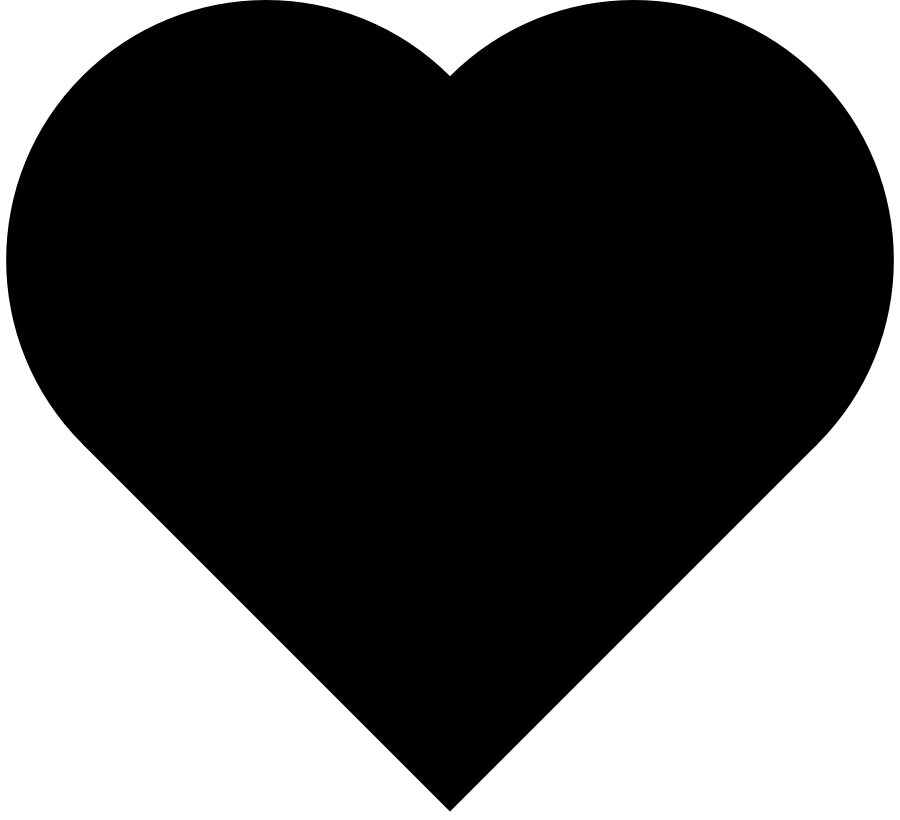
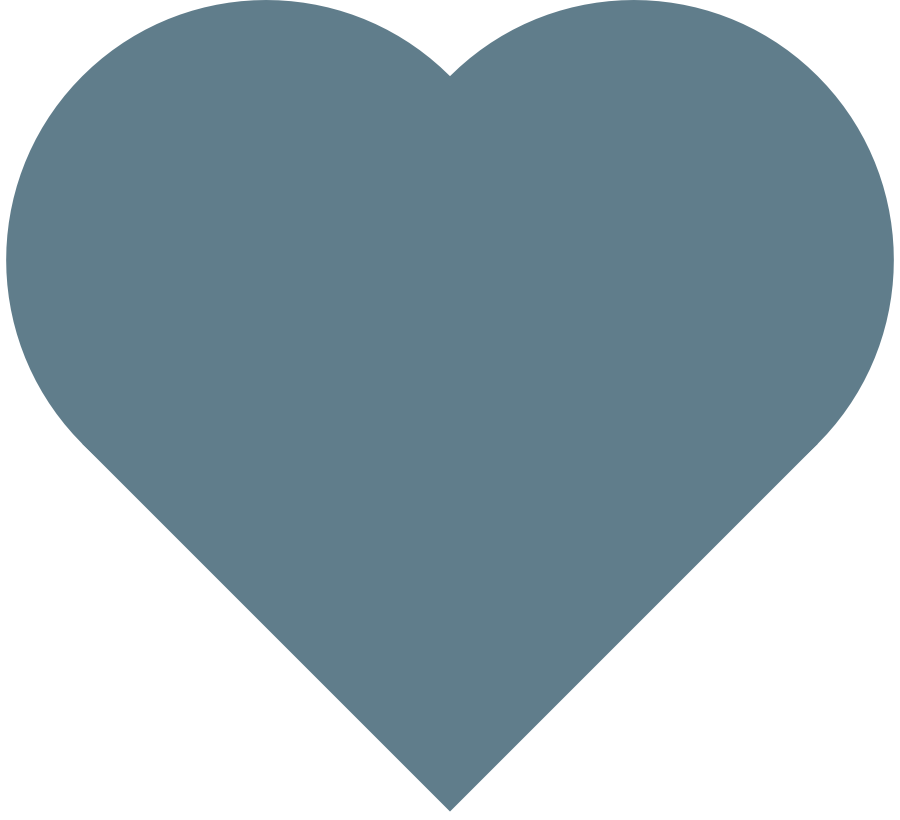
style timeline list header

diff --git a/src/containers/Timeline/Timeline.ListHeaderComponent.template.js b/src/containers/Timeline/Timeline.ListHeaderComponent.template.js
@@ -2,10 +2,23 @@ import React from 'react';
 import {
   View,
   Text,
+  Image,
 } from 'react-native';
+import ReactArt, {
+    Group,
+    Shape,
+    Surface,
+    Transform,
+} from 'ReactNativeART';
 
+import Circle from '../../components/Circle';
 import { vars } from '../../styles';
 import styles from './Timeline.styles';
+import coinImg from '../../images/coin.png';
+import jalapenoImg from '../../images/jalapeno.png';
+
+const circumfrance = 36;
+const radius = circumfrance / 2;
 
 const leaderboardSlot = ({
   initials,
@@ -13,7 +26,59 @@ const leaderboardSlot = ({
   jalapenoCount,
 }) => (
   <View style={styles.leaderboardSlot}>
-    <Text>{ initials } { coinCount } { jalapenoCount }</Text>
+    <View style={{
+      width: circumfrance,
+      height: circumfrance,
+      justifyContent: 'center',
+      alignItems: 'center',
+    }}>
+      <Surface
+        width={42}
+        height={42}
+      >
+        <Group>
+          <Circle
+            radius={21}
+            fill={vars.blueGrey500}
+          />
+        </Group>
+      </Surface>
+      <Text
+        style={{
+          position: 'absolute',
+          backgroundColor: 'transparent',
+          color: 'white',
+          fontFamily: vars.fontBlack,
+          fontSize: 20,
+        }}
+      >
+        {initials}
+      </Text>
+    </View>
+    <View style={{
+      flexDirection: 'row',
+      justifyContent: 'center',
+      alignItems: 'center',
+    }}>
+      <Image
+        source={coinImg}
+        style={{
+          width: 36,
+          height: circumfrance,
+          marginLeft: 32,
+        }}
+      />
+      <Text style={styles.leaderboardText}>{ coinCount }</Text>
+      <Image
+        source={jalapenoImg}
+        style={{
+          width: 25,
+          height: circumfrance,
+          marginLeft: 16,
+        }}
+      />
+      <Text style={styles.leaderboardText}>{ jalapenoCount }</Text>
+    </View>
   </View>
 );
 

diff --git a/src/containers/Timeline/Timeline.styles.js b/src/containers/Timeline/Timeline.styles.js
@@ -12,7 +12,15 @@ export default new StyleSheet.create({
   leaderboardSlot: {
     paddingLeft: 16,
     paddingRight: 16,
-    paddingTop: 16,
+    paddingTop: 32,
+    flexDirection: 'row',
+    alignItems: 'center',
+  },
+  leaderboardText: {
+    marginLeft: 8,
+    fontFamily: vars.fontBlack,
+    fontSize: 20,
+    color: vars.blueGrey500,
   },
   sectionHeaderContainer: {
     padding: 16,

diff --git a/src/containers/Timeline/Timeline.renderItem.template.js b/src/containers/Timeline/Timeline.renderItem.template.js
@@ -21,9 +21,9 @@ const getEventDisplayName = (eventName, count) => {
 
   switch (eventName) {
     case 'coin-sent':
-      return `Coin${plur} sent`;
+      return `Luvup${plur} sent`;
     case 'coin-received':
-      return `Coin${plur} received`;
+      return `Luvup${plur} received`;
     case 'jalapeno-sent':
       return `Jalapeno${plur} sent`;
     case 'jalapeno-received':

diff --git a/src/containers/Timeline/Timeline.template.js b/src/containers/Timeline/Timeline.template.js
@@ -64,7 +64,6 @@ export default ({
         alignSelf: 'stretch',
       }}
     >
-      <Text>Timeline {sentCoinsCount}, { sentJalapenosCount}</Text>
       <SectionList
         style={styles.sectionLists}
         ListHeaderComponent={<ListHeaderComponent
